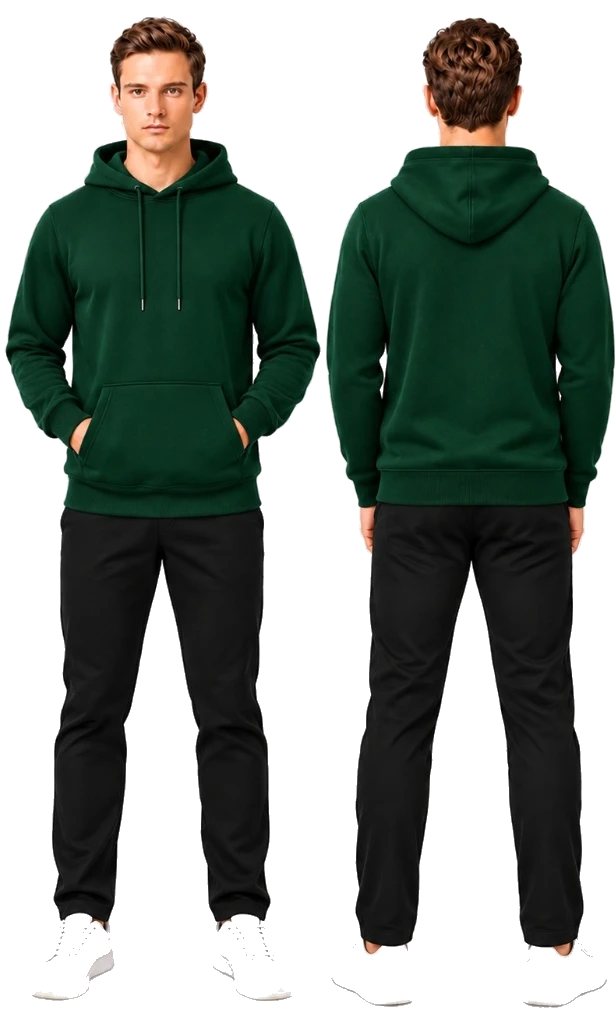
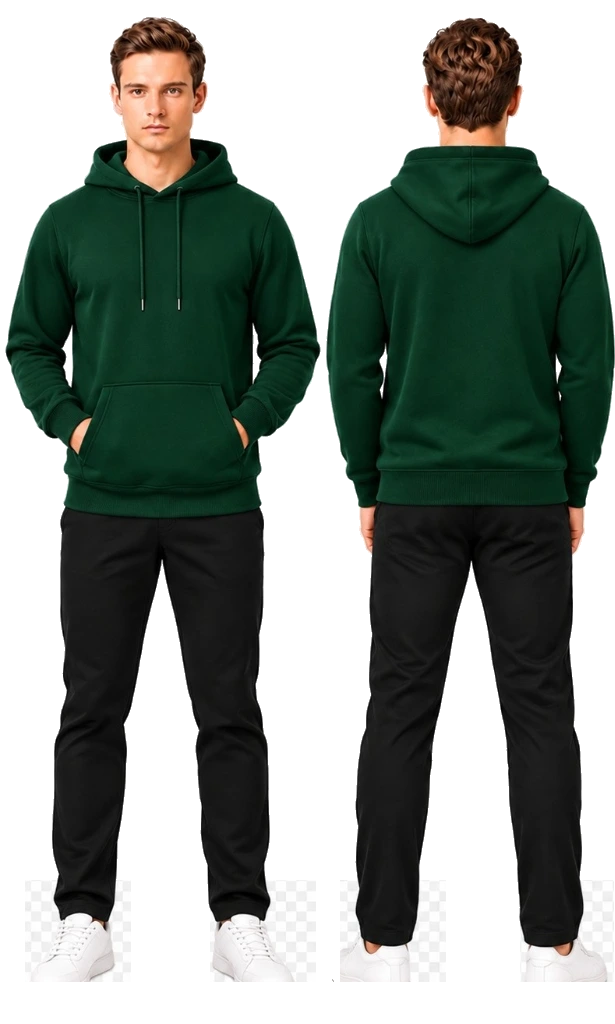
feat(showcase): align ground baseline, position main model right, fix transparency, add colloidal animated cards and glassmorphic depth

diff --git a/src/pages/Categories/components/ClientUniformShowcase.tsx b/src/pages/Categories/components/ClientUniformShowcase.tsx
@@ -716,11 +716,29 @@ export const ClientUniformShowcase: React.FC<ClientUniformShowcaseProps> = ({
       onTouchEnd={handleTouchEnd}
       aria-label={badgeText}
     >
+      <style>{`
+        @keyframes colloidalPop {
+          0% {
+            opacity: 0;
+            transform: scale(0.88) translateY(12px);
+            border-radius: 24px;
+          }
+          60% {
+            transform: scale(1.02) translateY(-2px);
+            border-radius: 44px;
+          }
+          100% {
+            opacity: 1;
+            transform: scale(1) translateY(0);
+            border-radius: 38px;
+          }
+        }
+      `}</style>
       <div className="max-w-[1440px] mx-auto px-4 sm:px-6 lg:px-8 w-full relative z-10 flex flex-col justify-center h-full">
         {/* DESKTOP VIEW (Main Model aligned on Right near 4 detail cards, shaded models on Left in decreasing size) */}
-        <div className="hidden lg:flex items-center justify-between gap-4 xl:gap-6 h-full">
+        <div className="hidden lg:flex items-center justify-between gap-6 xl:gap-8 h-full">
           {/* Left Column: Heading, Carousel Stage with Left-Staggered Models, Thin-line Loader */}
-          <div className="flex-1 flex flex-col justify-between h-full py-2">
+          <div className="flex-1 flex flex-col justify-between max-w-[900px] xl:max-w-[980px] h-full py-4">
             {/* Header Content */}
             <div className="text-left space-y-2">
               <span className="text-xs sm:text-[13px] font-heading font-extrabold uppercase tracking-widest text-[#82132C] block">
@@ -734,94 +752,115 @@ export const ClientUniformShowcase: React.FC<ClientUniformShowcaseProps> = ({
               </p>
             </div>
 
-            {/* Showcase Stage: Main model at right near small images, shaded models to the left in decreasing size */}
+            {/* Showcase Stage: Main model at right near small images, shaded models to the left in decreasing size anchored to floor */}
             <div
-              className="relative my-auto flex items-end justify-end h-[500px] xl:h-[550px] w-full pr-1 overflow-visible"
+              className="relative my-auto flex items-end justify-end min-h-[500px] xl:min-h-[560px] w-full pr-1 xl:pr-4 pb-2"
               style={{ perspective: '1200px' }}
             >
               {/* Warm Soft Ambient Halo behind main model */}
-              <div className="absolute top-1/2 right-12 xl:right-16 -translate-y-1/2 w-[420px] h-[420px] rounded-full bg-gradient-to-r from-burgundy-100/35 via-warm-100/40 to-burgundy-50/20 blur-3xl pointer-events-none" />
+              <div className="absolute top-1/2 right-12 xl:right-16 -translate-y-1/2 w-[420px] h-[420px] rounded-full bg-gradient-to-r from-burgundy-100/35 via-warm-100/50 to-burgundy-50/25 blur-3xl pointer-events-none" />
 
-              {/* Backward Option Button - Sleek Glassmorphic Circular Button */}
+              {/* Backward Navigation Button */}
               <button
                 onClick={handlePrev}
                 aria-label="Previous showcase slide"
-                className="absolute left-2 top-1/2 -translate-y-1/2 z-40 w-10 h-10 rounded-full bg-white/85 hover:bg-white backdrop-blur-md text-charcoal-700 hover:text-burgundy-700 border border-white/90 shadow-soft hover:shadow-soft-lg flex items-center justify-center transition-all duration-300 hover:scale-110 active:scale-95 cursor-pointer"
+                className="absolute -left-2 xl:-left-4 top-1/2 -translate-y-1/2 z-40 w-9 h-9 sm:w-10 sm:h-10 rounded-full bg-white/85 hover:bg-white text-burgundy-700 border border-burgundy-100/80 shadow-soft hover:shadow-soft-lg flex items-center justify-center transition-all duration-300 hover:scale-110 active:scale-95 cursor-pointer backdrop-blur-md"
               >
                 <ChevronLeft className="w-5 h-5 stroke-[2.2]" />
               </button>
 
-              {/* Shaded Left Model 3 (Smallest, furthest left, decreasing size step, only when > 3 slides) */}
+              {/* Shaded Left Model 3 (Furthest left, smallest scale, standing on floor) */}
               {totalSlides > 3 && (
                 <div
                   onClick={() => {
                     setProgress(0);
                     setCurrentIndex(leftIdx3);
                   }}
-                  className="absolute left-10 xl:left-14 bottom-0 z-10 w-[170px] xl:w-[190px] h-[270px] xl:h-[295px] backdrop-blur-md bg-white/20 border border-white/40 shadow-[0_4px_20px_rgba(0,0,0,0.03)] rounded-3xl p-1.5 flex items-end justify-center transition-all duration-700 hover:scale-[1.05] cursor-pointer"
+                  className="absolute left-2 xl:left-6 bottom-0 z-10 w-[240px] xl:w-[270px] cursor-pointer transition-all duration-700"
+                  style={{
+                    transform: 'rotateY(16deg) scale(0.48)',
+                    transformOrigin: 'bottom center',
+                    filter: 'blur(1.2px) drop-shadow(0 10px 20px rgba(0,0,0,0.12))',
+                    opacity: 0.22,
+                  }}
                   title={`Switch to ${slides[leftIdx3].brand}`}
                 >
                   <img
                     src={slides[leftIdx3].modelImage}
                     alt={slides[leftIdx3].brand}
-                    className="w-full h-full object-contain object-bottom select-none filter grayscale-[35%] opacity-30 hover:opacity-60 transition-all duration-500"
+                    className="w-full h-auto max-h-[460px] xl:max-h-[520px] object-contain select-none"
                   />
                 </div>
               )}
 
-              {/* Shaded Left Model 2 (Medium small, mid-left, decreasing size step, only when > 2 slides) */}
+              {/* Shaded Left Model 2 (Mid-left, medium scale, standing on floor) */}
               {totalSlides > 2 && (
                 <div
                   onClick={() => {
                     setProgress(0);
                     setCurrentIndex(leftIdx2);
                   }}
-                  className="absolute left-[160px] xl:left-[195px] bottom-0 z-15 w-[210px] xl:w-[235px] h-[340px] xl:h-[370px] backdrop-blur-md bg-white/25 border border-white/50 shadow-[0_6px_24px_rgba(0,0,0,0.04)] rounded-3xl p-2 flex items-end justify-center transition-all duration-700 hover:scale-[1.04] cursor-pointer"
+                  className="absolute left-[130px] xl:left-[170px] bottom-0 z-15 w-[270px] xl:w-[310px] cursor-pointer transition-all duration-700"
+                  style={{
+                    transform: 'rotateY(12deg) scale(0.64)',
+                    transformOrigin: 'bottom center',
+                    filter: 'blur(0.7px) drop-shadow(0 12px 24px rgba(0,0,0,0.14))',
+                    opacity: 0.38,
+                  }}
                   title={`Switch to ${slides[leftIdx2].brand}`}
                 >
                   <img
                     src={slides[leftIdx2].modelImage}
                     alt={slides[leftIdx2].brand}
-                    className="w-full h-full object-contain object-bottom select-none filter grayscale-[22%] opacity-45 hover:opacity-75 transition-all duration-500"
+                    className="w-full h-auto max-h-[480px] xl:max-h-[540px] object-contain select-none"
                   />
                 </div>
               )}
 
-              {/* Shaded Left Model 1 (Immediately left of main model, decreasing size step, shown when > 1 slide) */}
+              {/* Shaded Left Model 1 (Immediately left of main model, decreased size, standing on floor) */}
               {totalSlides > 1 && (
                 <div
                   onClick={() => {
                     setProgress(0);
                     setCurrentIndex(leftIdx1);
                   }}
-                  className="absolute right-[330px] xl:right-[390px] bottom-0 z-20 w-[260px] xl:w-[295px] h-[415px] xl:h-[455px] backdrop-blur-md bg-white/35 border border-white/60 shadow-[0_8px_30px_rgba(0,0,0,0.06)] rounded-3xl p-2 flex items-end justify-center transition-all duration-700 hover:scale-[1.03] cursor-pointer"
+                  className="absolute right-[280px] xl:right-[340px] bottom-0 z-20 w-[310px] xl:w-[360px] cursor-pointer transition-all duration-700"
+                  style={{
+                    transform: 'rotateY(8deg) scale(0.80)',
+                    transformOrigin: 'bottom center',
+                    filter: 'blur(0.3px) drop-shadow(0 14px 28px rgba(0,0,0,0.16))',
+                    opacity: 0.58,
+                  }}
                   title={`Switch to ${slides[leftIdx1].brand}`}
                 >
                   <img
                     src={slides[leftIdx1].modelImage}
                     alt={slides[leftIdx1].brand}
-                    className="w-full h-full object-contain object-bottom select-none filter grayscale-[12%] opacity-60 hover:opacity-90 transition-all duration-500"
+                    className="w-full h-auto max-h-[500px] xl:max-h-[560px] object-contain select-none"
                   />
                 </div>
               )}
 
-              {/* MAIN ACTIVE MODEL (Aligned on right side directly adjacent to 4 detail cards, in increased size, no glassmorphism container) */}
+              {/* MAIN ACTIVE MODEL (Increased size, standing on floor, positioned adjacent to 4 colloidal cards) */}
               <div
-                className="relative z-30 w-[350px] lg:w-[390px] xl:w-[440px] h-[480px] xl:h-[530px] flex items-end justify-center transition-all duration-700 ease-out mr-3 xl:mr-4"
+                className="relative z-30 w-full max-w-[430px] xl:max-w-[490px] flex items-end justify-center ml-auto transition-all duration-700 ease-out"
+                style={{
+                  transformStyle: 'preserve-3d',
+                }}
               >
                 <img
                   key={currentSlide.id}
                   src={currentSlide.modelImage}
                   alt={`${currentSlide.brand} showcase`}
-                  className="w-full h-full object-contain object-bottom drop-shadow-[0_20px_35px_rgba(0,0,0,0.16)] transition-all duration-700 select-none"
+                  className="w-full h-auto max-h-[500px] xl:max-h-[570px] object-contain drop-shadow-[0_20px_35px_rgba(0,0,0,0.18)] transition-all duration-700 select-none"
                 />
               </div>
 
-              {/* Forward Option Button - Sleek Glassmorphic Circular Button */}
+              {/* Forward Navigation Button */}
               <button
                 onClick={handleNext}
                 aria-label="Next showcase slide"
-                className="absolute right-0 xl:right-1 top-1/2 -translate-y-1/2 z-40 w-10 h-10 rounded-full bg-white/85 hover:bg-white backdrop-blur-md text-charcoal-700 hover:text-burgundy-700 border border-white/90 shadow-soft hover:shadow-soft-lg flex items-center justify-center transition-all duration-300 hover:scale-110 active:scale-95 cursor-pointer"
+                className="absolute -right-2 xl:-right-4 top-1/2 -translate-y-1/2 z-40 w-9 h-9 sm:w-10 sm:h-10 rounded-full bg-white/85 hover:bg-white text-burgundy-700 border border-burgundy-100/80 shadow-soft hover:shadow-soft-lg flex items-center justify-center transition-all duration-300 hover:scale-110 active:scale-95 cursor-pointer backdrop-blur-md"
               >
                 <ChevronRight className="w-5 h-5 stroke-[2.2]" />
               </button>
@@ -852,32 +891,31 @@ export const ClientUniformShowcase: React.FC<ClientUniformShowcaseProps> = ({
             </div>
           </div>
 
-          {/* Right Column: 4 Circular Colloidal Shaped Detail Cards with Glassmorphism and Animated on Slide Change */}
-          <div className="w-[180px] xl:w-[210px] shrink-0 flex flex-col justify-center gap-2.5 xl:gap-3 my-auto z-30">
-            {currentSlide.details.map((detail, idx) => {
-              // Smooth Colloidal Circular Shapes
-              const colloidalRadii = [
-                'rounded-[38px_24px_38px_24px]',
-                'rounded-[24px_38px_24px_38px]',
-                'rounded-[36px_26px_36px_26px]',
-                'rounded-[26px_36px_26px_36px]',
-              ];
-              return (
-                <div
-                  key={`${currentSlide.id}-${detail.id}-${idx}`}
-                  className={`relative w-full aspect-[16/10] backdrop-blur-md bg-white/45 border-2 border-white/80 shadow-[0_8px_22px_rgba(88,8,25,0.08)] hover:shadow-[0_12px_28px_rgba(88,8,25,0.16)] transition-all duration-500 hover:scale-[1.04] p-1 overflow-hidden animate-colloidal-pop ${colloidalRadii[idx % 4]}`}
+          {/* Right Column: 4 Circular Colloidal Shaped Detail Cards with Re-triggering Entry Animation */}
+          <div className="w-[185px] xl:w-[220px] shrink-0 flex flex-col justify-center gap-3 xl:gap-3.5 my-auto">
+            {currentSlide.details.map((detail, idx) => (
+              <div
+                key={`${currentSlide.id}-${detail.id}-${idx}`}
+                className="group relative w-full overflow-hidden shadow-[0_6px_20px_rgba(0,0,0,0.10)] hover:shadow-[0_12px_28px_rgba(130,19,44,0.20)] transition-all duration-500 hover:scale-[1.03] aspect-[16/10] bg-white/40 backdrop-blur-xs"
+                style={{
+                  borderRadius: '38px',
+                  animation: `colloidalPop 0.55s cubic-bezier(0.34, 1.56, 0.64, 1) ${idx * 70}ms both`,
+                }}
+              >
+                <img
+                  src={detail.image}
+                  alt={detail.title}
+                  className="w-full h-full object-cover transition-transform duration-500 group-hover:scale-108"
                   style={{
-                    animationDelay: `${idx * 75}ms`,
+                    borderRadius: '38px',
                   }}
-                >
-                  <img
-                    src={detail.image}
-                    alt={detail.title}
-                    className={`w-full h-full object-cover select-none ${colloidalRadii[idx % 4]}`}
-                  />
-                </div>
-              );
-            })}
+                />
+                <div
+                  className="absolute inset-0 pointer-events-none border border-black/5"
+                  style={{ borderRadius: '38px' }}
+                />
+              </div>
+            ))}
           </div>
         </div>
 
@@ -896,21 +934,21 @@ export const ClientUniformShowcase: React.FC<ClientUniformShowcaseProps> = ({
             </p>
           </div>
 
-          {/* Mobile Stage: Main Model positioned right-center, shaded models on left with glassmorphism */}
+          {/* Mobile Stage: Main Model positioned right-center, shaded models on left anchored to bottom */}
           <div
-            className="relative py-2 flex items-end justify-end h-[300px] xs:h-[330px] sm:h-[360px] w-full overflow-hidden"
-            style={{ perspective: '800px' }}
+            className="relative py-2 flex items-end justify-end min-h-[300px] xs:min-h-[330px] w-full overflow-hidden"
+            style={{ perspective: '900px' }}
           >
             {/* Ambient Glow */}
-            <div className="absolute top-1/2 right-12 -translate-y-1/2 w-[220px] h-[220px] rounded-full bg-burgundy-100/35 blur-2xl pointer-events-none" />
+            <div className="absolute top-1/2 right-8 -translate-y-1/2 w-[240px] h-[240px] rounded-full bg-burgundy-100/35 blur-2xl pointer-events-none" />
 
             {/* Mobile Backward Button */}
             <button
               onClick={handlePrev}
               aria-label="Previous showcase slide"
-              className="absolute left-1 top-1/2 -translate-y-1/2 z-30 w-8 h-8 rounded-full bg-white/85 hover:bg-white backdrop-blur-md text-charcoal-700 hover:text-burgundy-700 border border-white/90 shadow-soft flex items-center justify-center cursor-pointer transition-all active:scale-95"
+              className="absolute left-1 top-1/2 -translate-y-1/2 z-30 w-8 h-8 rounded-full bg-white/85 hover:bg-white text-burgundy-700 border border-burgundy-100 shadow-soft flex items-center justify-center cursor-pointer backdrop-blur-md"
             >
-              <ChevronLeft className="w-5 h-5 stroke-[2.2]" />
+              <ChevronLeft className="w-5 h-5" />
             </button>
 
             {/* Left Shaded Model 2 (only when > 2 slides) */}
@@ -920,12 +958,18 @@ export const ClientUniformShowcase: React.FC<ClientUniformShowcaseProps> = ({
                   setProgress(0);
                   setCurrentIndex(leftIdx2);
                 }}
-                className="absolute left-2 bottom-0 z-10 w-[95px] xs:w-[110px] h-[180px] xs:h-[200px] backdrop-blur-md bg-white/25 border border-white/45 shadow-2xs rounded-2xl p-1 flex items-end justify-center transition-all duration-500 cursor-pointer"
+                className="absolute left-2 bottom-0 z-10 w-[120px] transition-all duration-700"
+                style={{
+                  transform: 'rotateY(16deg) scale(0.55)',
+                  transformOrigin: 'bottom center',
+                  filter: 'blur(0.8px) grayscale(30%)',
+                  opacity: 0.28,
+                }}
               >
                 <img
                   src={slides[leftIdx2].modelImage}
                   alt={slides[leftIdx2].brand}
-                  className="w-full h-full object-contain object-bottom select-none filter grayscale-[30%] opacity-35"
+                  className="w-full h-auto max-h-[240px] object-contain select-none"
                 />
               </div>
             )}
@@ -937,23 +981,29 @@ export const ClientUniformShowcase: React.FC<ClientUniformShowcaseProps> = ({
                   setProgress(0);
                   setCurrentIndex(leftIdx1);
                 }}
-                className="absolute left-[70px] xs:left-[85px] sm:left-[115px] bottom-0 z-15 w-[125px] xs:w-[140px] sm:w-[160px] h-[220px] xs:h-[250px] sm:h-[280px] backdrop-blur-md bg-white/35 border border-white/55 shadow-soft rounded-2xl p-1.5 flex items-end justify-center transition-all duration-500 cursor-pointer"
+                className="absolute left-[70px] xs:left-[90px] sm:left-[120px] bottom-0 z-15 w-[145px] transition-all duration-700"
+                style={{
+                  transform: 'rotateY(12deg) scale(0.74)',
+                  transformOrigin: 'bottom center',
+                  filter: 'blur(0.4px) grayscale(18%)',
+                  opacity: 0.50,
+                }}
               >
                 <img
                   src={slides[leftIdx1].modelImage}
                   alt={slides[leftIdx1].brand}
-                  className="w-full h-full object-contain object-bottom select-none filter grayscale-[18%] opacity-55"
+                  className="w-full h-auto max-h-[270px] object-contain select-none"
                 />
               </div>
             )}
 
-            {/* Active Main Model: Aligned near right side on mobile, increased size, uncropped, grounded */}
-            <div className="relative z-20 w-[190px] xs:w-[215px] sm:w-[245px] h-[280px] xs:h-[310px] sm:h-[340px] mr-3 xs:mr-5 flex items-end justify-center">
+            {/* Active Main Model: Aligned near right side on mobile in increased size */}
+            <div className="relative z-20 w-full max-w-[240px] xs:max-w-[270px] sm:max-w-[300px] mr-2 xs:mr-4 flex items-end justify-center">
               <img
                 key={currentSlide.id}
                 src={currentSlide.modelImage}
                 alt={`${currentSlide.brand} showcase`}
-                className="w-full h-full object-contain object-bottom drop-shadow-[0_14px_24px_rgba(0,0,0,0.14)] transition-all duration-500 select-none"
+                className="w-full h-auto max-h-[310px] xs:max-h-[340px] object-contain drop-shadow-[0_14px_25px_rgba(0,0,0,0.15)] transition-all duration-500 select-none"
               />
             </div>
 
@@ -961,9 +1011,9 @@ export const ClientUniformShowcase: React.FC<ClientUniformShowcaseProps> = ({
             <button
               onClick={handleNext}
               aria-label="Next showcase slide"
-              className="absolute right-1 top-1/2 -translate-y-1/2 z-30 w-8 h-8 rounded-full bg-white/85 hover:bg-white backdrop-blur-md text-charcoal-700 hover:text-burgundy-700 border border-white/90 shadow-soft flex items-center justify-center cursor-pointer transition-all active:scale-95"
+              className="absolute right-1 top-1/2 -translate-y-1/2 z-30 w-8 h-8 rounded-full bg-white/85 hover:bg-white text-burgundy-700 border border-burgundy-100 shadow-soft flex items-center justify-center cursor-pointer backdrop-blur-md"
             >
-              <ChevronRight className="w-5 h-5 stroke-[2.2]" />
+              <ChevronRight className="w-5 h-5" />
             </button>
           </div>
 
@@ -991,31 +1041,25 @@ export const ClientUniformShowcase: React.FC<ClientUniformShowcaseProps> = ({
             ))}
           </div>
 
-          {/* 4 Circular Colloidal Shaped Detail Cards on Mobile with Glassmorphism and Animation */}
+          {/* 4 Circular Colloidal Shaped Detail Cards on Mobile */}
           <div className="grid grid-cols-4 gap-2 xs:gap-2.5 max-w-md mx-auto w-full pt-1 px-1">
-            {currentSlide.details.map((detail, idx) => {
-              const colloidalRadii = [
-                'rounded-[24px_16px_24px_16px]',
-                'rounded-[16px_24px_16px_24px]',
-                'rounded-[22px_18px_22px_18px]',
-                'rounded-[18px_22px_18px_22px]',
-              ];
-              return (
-                <div
-                  key={`${currentSlide.id}-mobile-${detail.id}-${idx}`}
-                  className={`relative backdrop-blur-md bg-white/50 border border-white/80 shadow-[0_4px_12px_rgba(88,8,25,0.08)] aspect-square p-0.5 overflow-hidden animate-colloidal-pop ${colloidalRadii[idx % 4]}`}
-                  style={{
-                    animationDelay: `${idx * 60}ms`,
-                  }}
-                >
-                  <img
-                    src={detail.image}
-                    alt={detail.title}
-                    className={`w-full h-full object-cover select-none ${colloidalRadii[idx % 4]}`}
-                  />
-                </div>
-              );
-            })}
+            {currentSlide.details.map((detail, idx) => (
+              <div
+                key={`${currentSlide.id}-mobile-${detail.id}-${idx}`}
+                className="relative overflow-hidden shadow-[0_4px_12px_rgba(0,0,0,0.10)] aspect-square bg-transparent"
+                style={{
+                  borderRadius: '24px',
+                  animation: `colloidalPop 0.5s cubic-bezier(0.34, 1.56, 0.64, 1) ${idx * 60}ms both`,
+                }}
+              >
+                <img
+                  src={detail.image}
+                  alt={detail.title}
+                  className="w-full h-full object-cover"
+                  style={{ borderRadius: '24px' }}
+                />
+              </div>
+            ))}
           </div>
         </div>
       </div>
